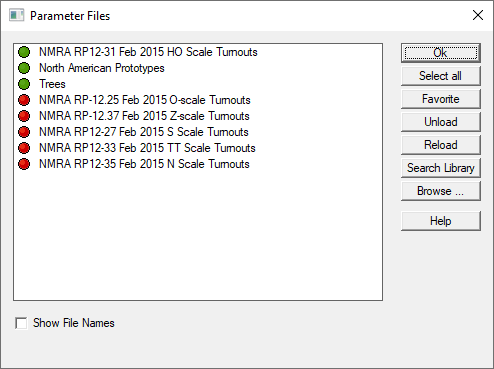
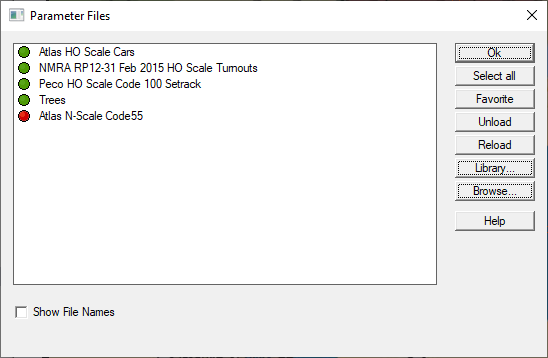
Update help for search functionality

diff --git a/app/bin/paramfilesearch_ui.c b/app/bin/paramfilesearch_ui.c
@@ -71,7 +71,7 @@ static paramData_t searchUiPLs[] = {
 #define I_MESSAGE (3)
     { PD_MESSAGE, N_(QUERYPROMPTSTRING), NULL, 0, (void *)370 },
 #define I_STATISTICS (4)
-    { PD_MESSAGE, N_(""), NULL, PDO_DLGBOXEND, (void *)370 },
+    { PD_MESSAGE, "", NULL, PDO_DLGBOXEND, (void *)370 },
 #define I_RESULTLIST	(5)
     {	PD_LIST, NULL, "inx", PDO_NOPREF | PDO_DLGRESIZE, &searchUiListData, NULL, BL_DUP|BL_SETSTAY|BL_MANY },
 #define I_MODETOGGLE	(6)
@@ -80,7 +80,7 @@ static paramData_t searchUiPLs[] = {
     {	PD_BUTTON, (void *)SearchUiApply, "apply", PDO_DLGCMDBUTTON, NULL, N_("Add") },
 #define I_SELECTALLBUTTON (8)
     {	PD_BUTTON, (void*)SearchUiSelectAll, "selectall", PDO_DLGCMDBUTTON, NULL, N_("Select all") },
-    {	PD_BUTTON, (void*)SearchUiDefault, "default", 0, NULL, N_("Reload Library") },
+    //{	PD_BUTTON, (void*)SearchUiDefault, "default", 0, NULL, N_("Reload Library") },
 };
 
 #define SEARCHBUTTON ((wButton_p)searchUiPLs[I_SEARCHBUTTON].control)

diff --git a/app/bin/dprmfile.c b/app/bin/dprmfile.c
@@ -84,8 +84,8 @@ static paramData_t paramFilePLs[] = {
     {   PD_BUTTON, (void *)ParamFileFavorite, "favorite", PDO_DLGCMDBUTTON, (void *)TRUE, N_("Favorite")},
     {	PD_BUTTON, (void*)ParamUnloadSelectedFiles, "unload", PDO_DLGCMDBUTTON, NULL, N_(PARAMBUTTON_UNLOAD), 0L, FALSE },
 	{   PD_BUTTON, (void*)ParamRefreshSelectedFiles, "refresh", PDO_DLGCMDBUTTON, NULL, N_(PARAMBUTTON_REFRESH), 0L, FALSE },
-    {	PD_BUTTON, (void*)DoSearchParams, "find", 0, NULL, N_("Search Library") },
-	{	PD_BUTTON, (void*)ParamFileBrowse, "browse", 0, NULL, N_("Browse ...") },
+    {	PD_BUTTON, (void*)DoSearchParams, "find", 0, NULL, N_("Library...") },
+	{	PD_BUTTON, (void*)ParamFileBrowse, "browse", 0, NULL, N_("Browse...") },
 
 
 };
